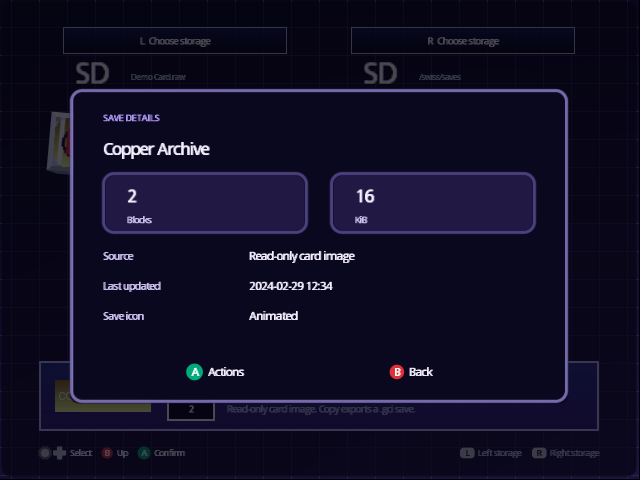
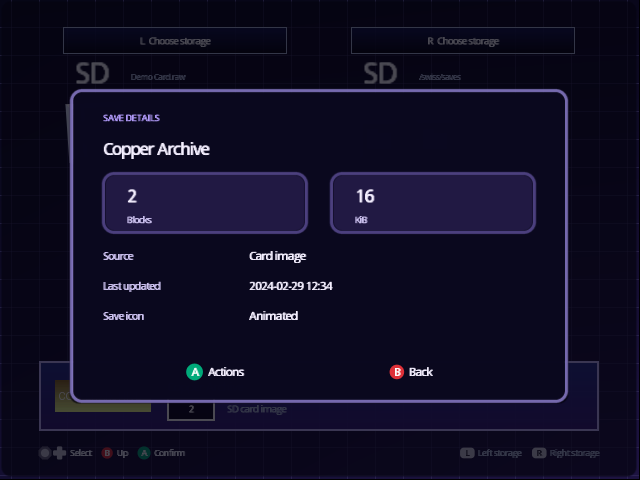
Docs: the guide pictures 2.4 changed, re-recorded
Nine pictures re-recorded from the v2.4.0 release zip in the emulator
with demonstration data: Memory Cards on writable card images (the
open image, its icon animation, three save details), the Storage page
with Library Path, and Game Details' Saves counted by file with the
save's own line. Alt text follows them; one sentence in memory-cards.md
no longer calls card images read-only.

Changed region(s): [[0.0625, 0.2188, 0.125, 0.375], [0.375, 0.8438, 0.6562, 0.875], [0.375, 0.5, 0.5625, 0.5625]]

diff --git a/docs/guide/memory-cards.md b/docs/guide/memory-cards.md
@@ -108,7 +108,7 @@ can have a saved color; resetting one frees its place.
 
 Colors are saved with Indigo's settings on the Configuration Device. If that
 save fails, the page stays open with an explanation and the previous saved
-color remains in place. Card images keep their read-only status throughout.
+color remains in place. A card image's color is saved there too, never in the image.
 
 ### Virtual memory cards
 
@@ -138,7 +138,7 @@ images stay read-only: Move and Erase are dimmed, and Copy exports a save
 as a `.gci` file.
 
 <p align="center">
-  <img alt="Demo Card.raw opened on the left shows Copper Archive and another save, with the other column still on the SD folder. The info bar shows the save's banner and two-block size, and says that Copy exports a GCI from the read-only card image." src="images/memory-cards-raw.png" width="640">
+  <img alt="Demo Card.raw opened on the left shows Copper Archive and another save, with the other column still on the SD folder. The info bar shows the save's banner, its two-block size and the save's own line, SD card image." src="images/memory-cards-raw.png" width="640">
 </p>
 
 <p align="center">
@@ -175,7 +175,7 @@ open Move, Copy and Erase. A dimmed action always explains why it can't be
 used.
 
 <p align="center">
-  <img alt="Copper Archive is the Save details headline. Separate metric cells show 2 Blocks and 16 KiB; aligned rows show Read-only card image, Last updated: 2024-02-29 12:34 and Save icon: Animated. The footer has native A Actions and B Back button icons." src="images/memory-cards-details.png" width="640">
+  <img alt="Copper Archive is the Save details headline. Separate metric cells show 2 Blocks and 16 KiB; aligned rows show Source: Card image, Last updated: 2024-02-29 12:34 and Save icon: Animated. The footer has native A Actions and B Back button icons." src="images/memory-cards-details.png" width="640">
 </p>
 
 A save without a recorded update date shows **Unknown**. The dialog remains
@@ -186,7 +186,7 @@ available when no action can be used.
 </p>
 
 <p align="center">
-  <img alt="Copper Archive’s details remains available with Demo Card.raw independently open in both columns. A Actions and B Back are visible even though the images are read-only." src="images/memory-cards-details-both-raw.png" width="640">
+  <img alt="Copper Archive’s details with Demo Card.raw open in both columns. A Actions and B Back are there even though Move and Copy can't be used: the image on the other side already holds this save." src="images/memory-cards-details-both-raw.png" width="640">
 </p>
 
 A save on a physical memory card names its slot in **Source**.
@@ -267,7 +267,7 @@ opens one, X chooses the one that's open, and B keeps the folder you had.
 Leave Settings with Save & Exit to keep your choice.
 
 <p align="center">
-  <img alt="Settings, Setup, Storage: Save Folder, the second row, reads /swiss/saves, and the line above the buttons reads: the folder Memory Cards (Home › System) opens on the SD card, where saves copied off a memory card go unless you open or pick another." src="images/memory-cards-save-folder.png" width="640">
+  <img alt="Settings, Setup, Storage: Save Folder, the third row, under Configuration Device and Library Path, reads /swiss/saves, and the line above the buttons begins: The folder Memory Cards (Home › System) opens on the SD card: saves copied off a memory card go there." src="images/memory-cards-save-folder.png" width="640">
 </p>
 
 <p align="center">

diff --git a/AGENTS/journal.md b/AGENTS/journal.md
@@ -1,3 +1,35 @@
+## 2026-10-16 — v2.4.0's guide pictures
+
+Nine guide pictures were re-recorded from the v2.4.0 release zip, in CI's
+emulator image with the release's own harness and demonstration data only.
+The five the v2.4.0 entry named were stale, and so were four more:
+`memory-cards.png` and `memory-cards-raw-icons.webp` (the same read-only
+info bar as `memory-cards-raw.png`), `memory-cards-details-unknown.png`
+(Source: Read-only card image) and `memory-cards-save-folder.png` (no
+Library Path row, Save Folder 2 / 7 instead of 3 / 8).
+
+- The six Memory Cards pictures come from the virtual-cards route as CI runs
+  it (NTSC, component, a GC Loader card from the zip, both slots empty): the
+  open image's info bar now shows the save's own line, its details say Card
+  image, and with the image open on both sides Move and Copy are dimmed. The
+  icon animation is 24 frames 0.3 s of console time apart, a lossless WebP
+  at 300 ms each, as before. `memory-cards.png` is the same frame as
+  `memory-cards-raw.png`, as before.
+- `memory-cards-save-folder.png` is a new card's first screen, Storage, two
+  rows down.
+- The Game Details pictures have the Save Folder holding the RAW image, then
+  its exported GCI, with an empty card in Slot A: "2 copies | 2 blocks" over
+  the date and the save's own line, and after Right twice "Copy 2 of 2 |
+  Save Folder", "Loads at launch", the date and the line.
+
+Alt text follows the new pictures, and one sentence in memory-cards.md that
+called card images read-only now says that a card image's color is kept in
+Indigo's settings, never in the image (what the folder page says). Every
+other picture was checked against the release tree's own emulator captures
+and the settings rows and help text since it was recorded: none else
+changed, apart from the File Browser pictures' lighter unfocused pane (the
+2026-10-08 entry), which doesn't show at the guide's size.
+
 ## 2026-10-16 — v2.4.0
 
 Released from the console-tested build f160ec5: the Update 2.4 line, MemCard

diff --git a/docs/guide/game-details.md b/docs/guide/game-details.md
@@ -64,7 +64,7 @@ game's details again shows it: **2 copies | 2 blocks**, with the recorded
 update and the save's own line.
 
 <p align="center">
-  <img alt="Astral Circuit’s details after exporting one GCI: the Saves box, labelled « SAVES » since Left and Right choose a copy, reads 2 save copies | 4 blocks over Updated 2024-02-29 12:34." src="images/game-details-saves-after-copy.png" width="640">
+  <img alt="Astral Circuit’s details after exporting one GCI: the Saves box, labelled « SAVES » since Left and Right choose a copy, reads 2 copies | 2 blocks over Updated 2024-02-29 12:34 and the save's own line, SD card image." src="images/game-details-saves-after-copy.png" width="640">
 </p>
 
 ### Start with another copy of the save
@@ -84,7 +84,7 @@ card's own copies come first, then the SD cards', newest first; with more
 than eight, the oldest of those aren't offered.
 
 <p align="center">
-  <img alt="Astral Circuit’s details after Right twice: « SAVES » shows one copy, Copy 2 of 2 | Save Folder, over Loads at launch | 2024-02-29 12:34." src="images/game-details-save-choice.png" width="640">
+  <img alt="Astral Circuit’s details after Right twice: « SAVES » shows one copy, Copy 2 of 2 | Save Folder, over Loads at launch | 2024-02-29 12:34 | SD card image." src="images/game-details-save-choice.png" width="640">
 </p>
 
 Launch the game with another copy shown and Indigo asks first, naming the

diff --git a/CHANGELOG.md b/CHANGELOG.md
@@ -4,6 +4,14 @@ Versions follow [semantic versioning](https://semver.org/). Each release is a
 `vX.Y.Z` tag on `main`, and a release candidate before it is a `vX.Y.Z-rc.N`
 tag on `beta`. The newest changes are at the top until their release is named.
 
+## Unreleased
+
+### Documentation
+
+- The guide's Memory Cards and Game Details pictures show 2.4's screens:
+  card images that take Move, Copy and Erase, the Storage page with Library
+  Path, and Saves counted by file with the save's own line.
+
 ## v2.4.0 — A new File Browser, cube sides and faces, Saves on Details
 
 ### New
